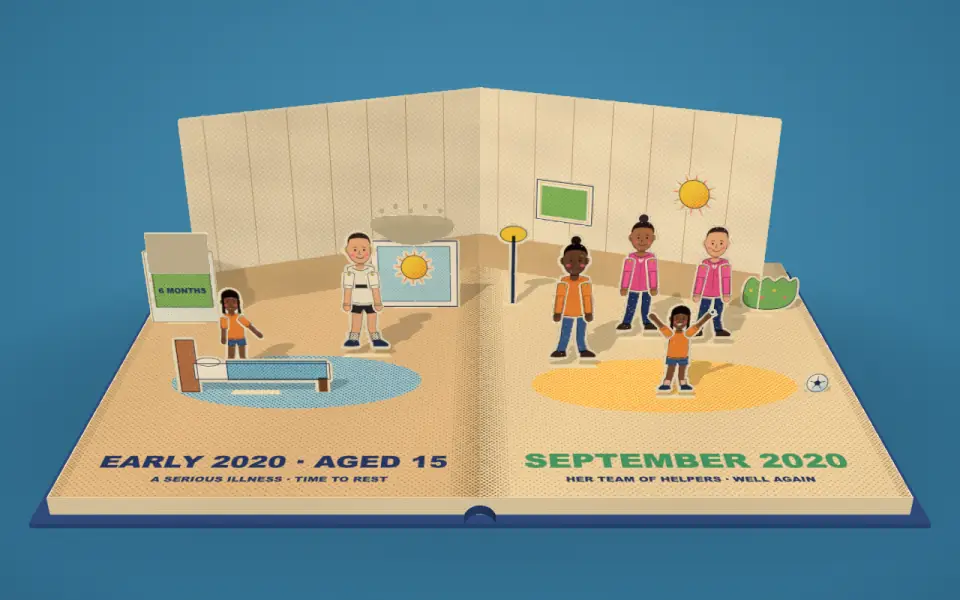
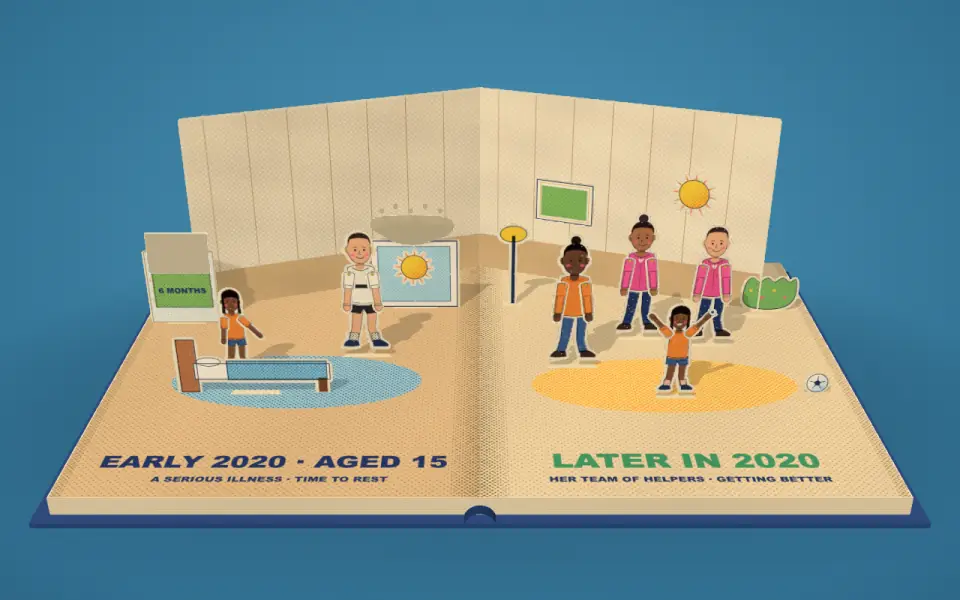
Books: Caicedo illness spread says 'Later in 2020 · getting better' (no unverified September date); still recaptured

Changed region(s): [[0.5312, 0.75, 0.9062, 0.81]]

diff --git a/lib/books/spreads/caicedo.ts b/lib/books/spreads/caicedo.ts
@@ -116,7 +116,7 @@ const debut:SpreadDef={id:'debut',rest:20.1,
 /* ───────────── 3 · The hardest challenge (illness) ───────────── */
 const illness:SpreadDef={id:'illness',rest:20.3,
  left:k=>{floor(k,-5,0);const rug=ell(-2.5,Z(.6),1.7,.7);k.fill(rug,INK.sky,.7);k.dots(rug,INK.blue,.05,.3);caption(k,-2.5,'EARLY 2020 · AGED 15','A SERIOUS ILLNESS · TIME TO REST',INK.navy);},
- right:k=>{floor(k,0,5,'#e4cfa8','#b39a6e');const rug=ell(2.5,Z(.7),1.8,.7);k.fill(rug,INK.yellow,.5);k.dots(rug,INK.orange,.05,.3);caption(k,2.5,'SEPTEMBER 2020','HER TEAM OF HELPERS · WELL AGAIN',INK.green);},
+ right:k=>{floor(k,0,5,'#e4cfa8','#b39a6e');const rug=ell(2.5,Z(.7),1.8,.7);k.fill(rug,INK.yellow,.5);k.dots(rug,INK.orange,.05,.3);caption(k,2.5,'LATER IN 2020','HER TEAM OF HELPERS · GETTING BETTER',INK.green);},
  build:B=>{
   const wall=(k:Kit,c:string)=>{wash(k,4.5,3,c,INK.white,y=>.2+y*.05);for(let x=.3;x<4.5;x+=.6)k.key(`M${x} 0 L${x} 2.4`,.01,'#c9b48e');k.fill(rect(0,2.4,4.5,.6),'#d9b98c');};
   const bd=backdrop(B,K+'i-bd',k=>wall(k,'#efe0c4'),k=>wall(k,'#f6e8cc'));
@@ -138,7 +138,7 @@ const illness:SpreadDef={id:'illness',rest:20.3,
   const hearts=helpers.map((h,i)=>h.body.add(heartBubble(`i-heart${i}`),.4,h.h*.95,{z:-.02}));
   const help=B.stand(P.lineCard('i-help',1.5,.62,['ASKING FOR','HELP IS BRAVE'],INK.yellow),4.1,-1.3,{layer:1,s:0});
   const well=B.person(K+'i-well',2.6,1.0,1.2,{shirt:'casual',...LINDA,face:'grin',layer:3,holdR:'ball'});
-  const sept=B.stand(S.flipCard(K+'i-sept',1.4,.32,'SEPTEMBER 2020',INK.pink),1.2,1.9,{layer:3,s:0,tab:false});
+  const sept=B.stand(S.flipCard(K+'i-sept',1.4,.32,'GETTING BETTER',INK.pink),1.2,1.9,{layer:3,s:0,tab:false});
   const team=B.stand(P.lineCard('i-team',1.9,.36,['DOCTORS · FAMILY · HELPERS'],INK.white),3.6,1.9,{layer:3,s:0,tab:false});
   return (b:Beat)=>{const act=b.action,manual=act>0,t=manual?Math.max(b.t,20.3):b.t;
    linda.body.s=beat(t,2.2,3);linda.armR.rot=.12+.6*beat(t,5,6);doc.body.s=beat(t,9.2,10);doc.armL.rot=-.12-1.1*pulse(t,10,12.6);
